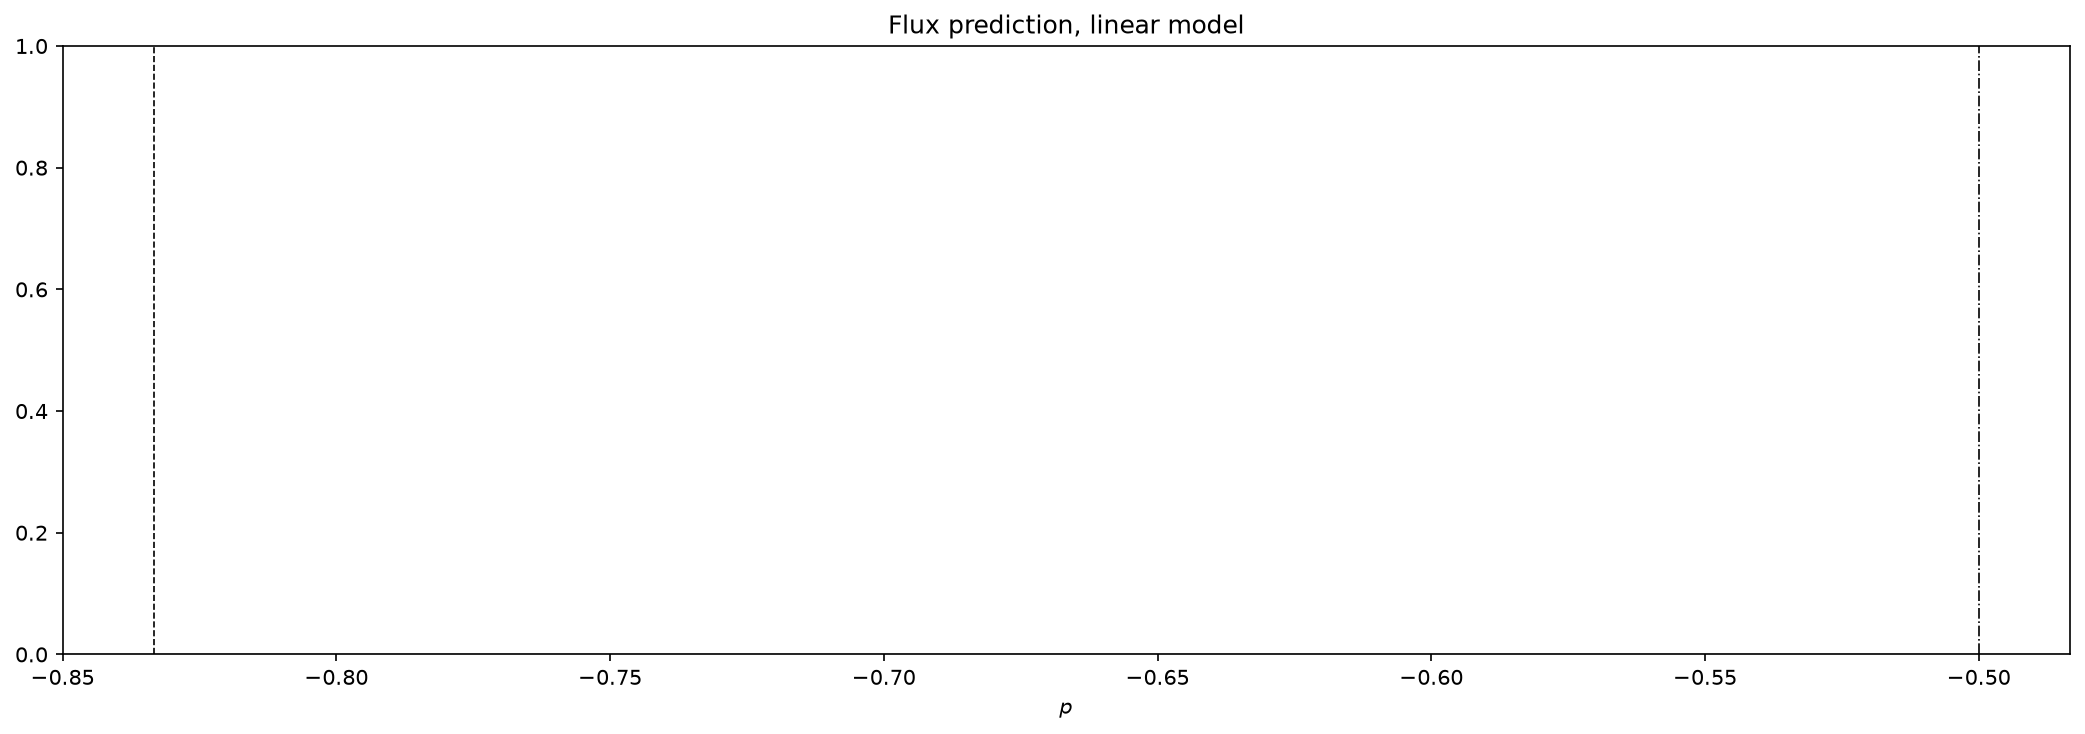
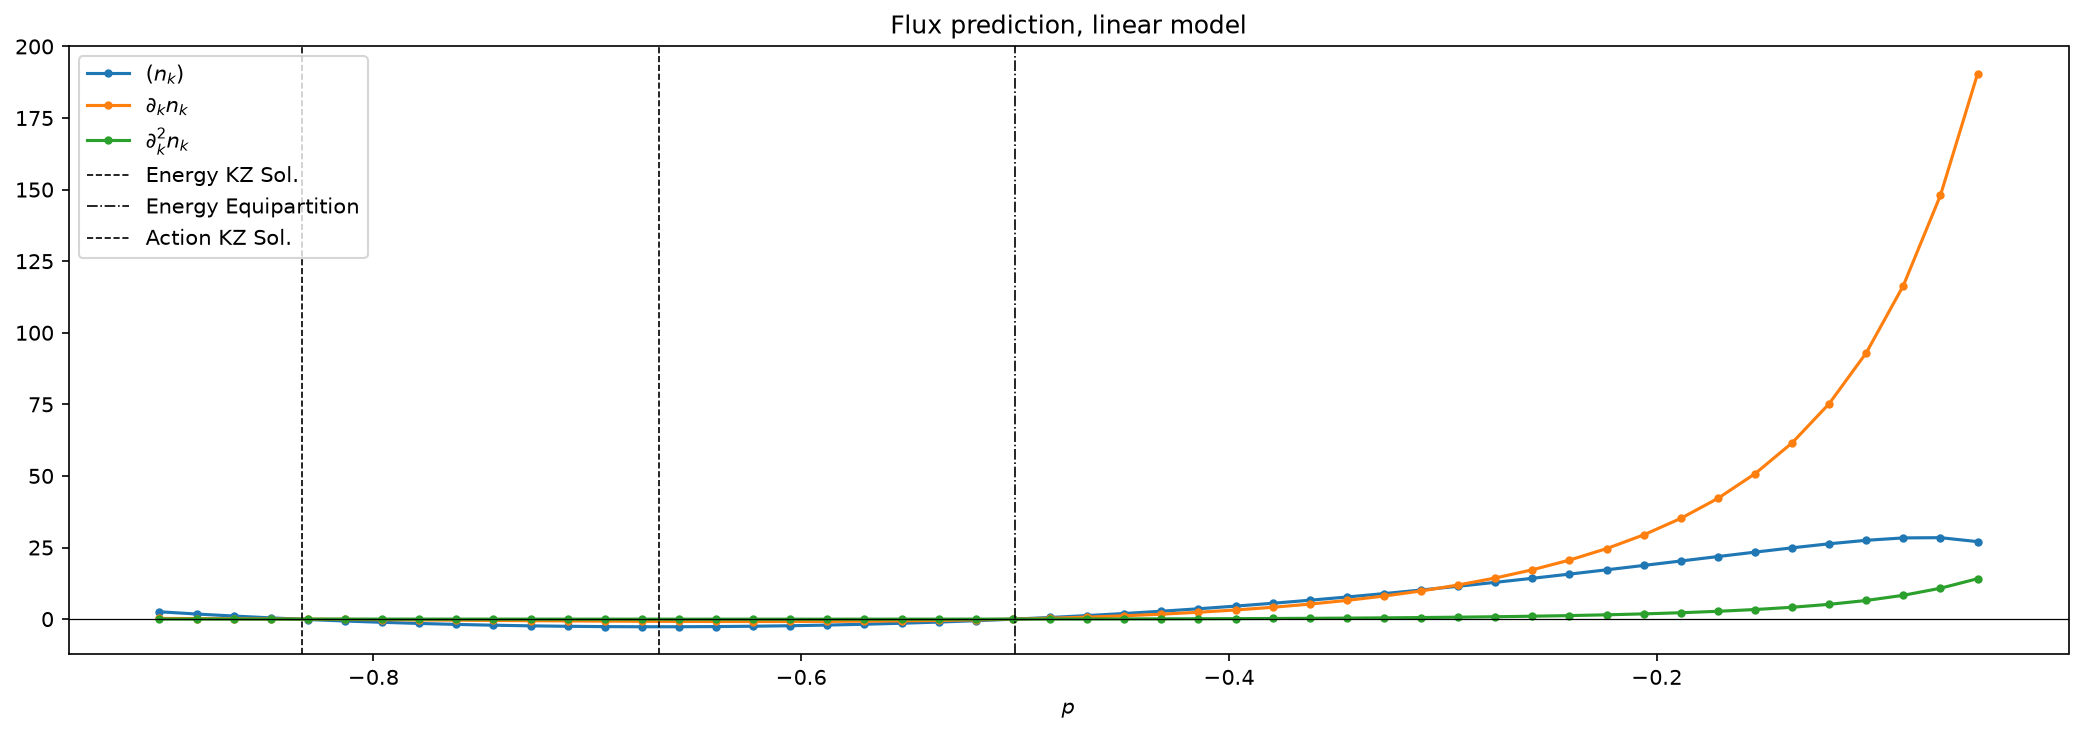
refactor: update fitting function to remove intercept and adjust return values

diff --git a/src/physics/linear_operator_library_mmt.py b/src/physics/linear_operator_library_mmt.py
@@ -34,11 +34,11 @@ def fit_operators_at_fixed_p_linear(p, A, k, k_min, k_max, beta=0.25,
     scaler = StandardScaler()
     X_scaled = scaler.fit_transform(X)
 
-    reg_exact = Ridge(alpha=ridge_alpha, fit_intercept=True).fit(X_scaled, F_true)
+    reg_exact = Ridge(alpha=ridge_alpha, fit_intercept=False).fit(X, F_true)
 
-    r2_exact = reg_exact.score(X_scaled, F_true)
+    r2_exact = reg_exact.score(X, F_true)
 
-    return (reg_exact.coef_, reg_exact.intercept_, r2_exact)
+    return (reg_exact.coef_,  r2_exact)
 
 def plot_coefficients_vs_p_linear(ps, A, k, k_min, k_max, beta=0.25,
                                N=300, IntN=200, max_order=2, save_path=None, show=True):
@@ -47,17 +47,16 @@ def plot_coefficients_vs_p_linear(ps, A, k, k_min, k_max, beta=0.25,
     labels = [r"$(n_k)$", r"$\partial_k n_k$", r"$\partial^2_k n_k$"
               ][:max_order + 1]
 
-    res = { "exact": {lab: [] for lab in labels + ["int"]}}
+    res = { "exact": {lab: [] for lab in labels}}
     r2_exact_list = []
 
     for p in ps:
-        (coef_e, int_e, r2_e) = fit_operators_at_fixed_p_linear(
+        (coef_e, r2_e) = fit_operators_at_fixed_p_linear(
             p, A, k, k_min, k_max, beta=beta, N=N, IntN=IntN, max_order=max_order, ridge_alpha = 1e-3
         )
         for lab, c in zip(labels, coef_e):
             res["exact"][lab].append(c)
 
-        res["exact"]["int"].append(int_e)
         r2_exact_list.append(r2_e)
 
     plt.figure(figsize=(14, 5))
@@ -70,6 +69,9 @@ def plot_coefficients_vs_p_linear(ps, A, k, k_min, k_max, beta=0.25,
     plt.title("Flux prediction, linear model")
     plt.axvline(-5/6, linestyle="--", linewidth=0.8, color="black", label="Energy KZ Sol.")
     plt.axvline(-1/2, linestyle="-.", linewidth=0.8, color="black", label="Energy Equipartition")
+    plt.axvline(-2/3, linestyle="--", linewidth=0.8, color="black", label="Action KZ Sol.")
+    #plt.yscale("log")
+    plt.legend()
 
     plt.tight_layout()
     if save_path:

diff --git a/main_mmt.py b/main_mmt.py
@@ -67,15 +67,15 @@ test_data = splits["test"]
 #                        p=-5/6, A=1, beta=0.25, N=900, IntN=600, max_order=3, 
 #                        save_path="outputs_mmt/reconstructed_flux_mmt.png", show=False)
 
-(coef_e_l, int_e_l, r2_e_l) = fit_operators_at_fixed_p_linear(
-    p = -5/6, A = 1, k = np.linspace(config.K_MIN, config.K_MAX, 100), k_min= config.K_MIN,
+(coef_e_l, r2_e_l) = fit_operators_at_fixed_p_linear(
+    p = -5/6, A = 1, k = np.linspace(0.1, 1, 50), k_min= config.K_MIN,
     k_max = config.K_MAX, beta=0.25, N=300, IntN=200, max_order=2, ridge_alpha = 1e-3
 )
 
-print("Coefficienti (solver MMT):", coef_e_l, "| intercetta:", int_e_l, "| R^2:", r2_e_l)
+print("Coefficienti (solver MMT):", coef_e_l, "| R^2:", r2_e_l)
 
 plot_coefficients_vs_p_linear(
-    ps = np.linspace(-0.9, -0.05, 50), A = 1, k = np.linspace(0.1, 1.0, 100), beta = 0.25, 
+    ps = np.linspace(-0.9, -0.05, 50), A = 1, k = np.linspace(0.1, 1.0, 50), beta = 0.25, 
     k_min = config.K_MIN, k_max = config.K_MAX, N=300, IntN=200, max_order=2,
     save_path="outputs_mmt/coefficients_vs_p_mmt_linear", show=False 
 )
